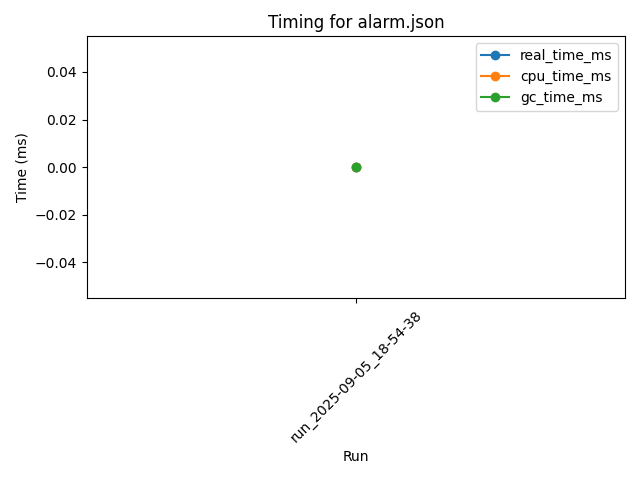
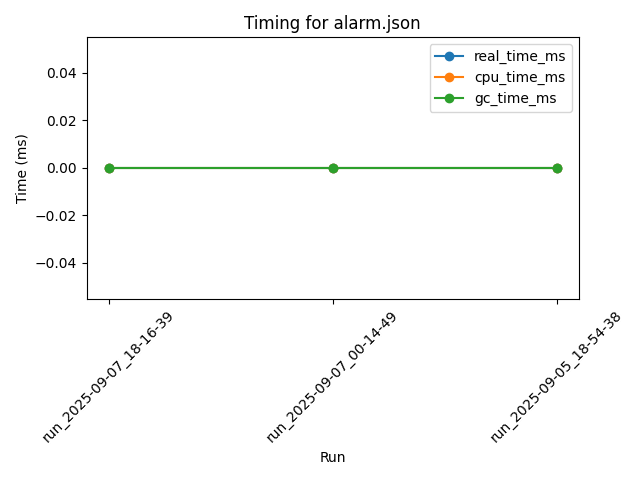
Update timing plots [skip ci]

diff --git a/summary/index.html b/summary/index.html
@@ -1,11 +1,21 @@
 <!DOCTYPE html PUBLIC "-//W3C//DTD HTML 4.01 Transitional//EN" "http://www.w3.org/TR/html4/loose.dtd">
-<html><head><meta http-equiv="content-type" content="text/html; charset=utf-8"/><meta name="viewport" content="width=device-width, initial-scale=0.8"/><title>Benchmarking results summary</title><link rel="stylesheet" type="text/css" href="scribble.css" title="default"/><link rel="stylesheet" type="text/css" href="manual-style.css" title="default"/><link rel="stylesheet" type="text/css" href="manual-racket.css" title="default"/><script type="text/javascript" src="scribble-common.js"></script><script type="text/javascript" src="manual-racket.js"></script><!--[if IE 6]><style type="text/css">.SIEHidden { overflow: hidden; }</style><![endif]--></head><body id="scribble-racket-lang-org"><div class="tocset"><div class="tocview"><div class="tocviewlist tocviewlisttopspace"><div class="tocviewtitle"><table cellspacing="0" cellpadding="0"><tr><td style="width: 1em;">&bull;</td><td></td><td><a href="" class="tocviewselflink" data-pltdoc="x">Benchmarking results summary</a></td></tr></table></div></div></div><div class="tocsub"><div class="tocsubtitle">On this page:</div><table class="tocsublist" cellspacing="0"><tr><td><span class="tocsublinknumber"></span><a href="#%28part._.Benchmarking_results_summary%29" class="tocsubseclink" data-pltdoc="x">Benchmarking results summary</a></td></tr></table></div></div><div class="maincolumn"><div class="main"><div class="versionbox"><span class="version">8.15</span></div><div class="navsettop"><span class="navleft"><div class="nosearchform"></div>&nbsp;&nbsp;<span class="tocsettoggle">&nbsp;&nbsp;<a href="javascript:void(0);" title="show/hide table of contents" onclick="TocsetToggle();">contents</a></span></span>&nbsp;</div><h2 class="heading"><a name="(part._.Benchmarking_results_summary)"></a>Benchmarking results summary<span class="button-group"><a href="#(part._.Benchmarking_results_summary)" class="heading-anchor" title="Link to here">🔗</a><span style="visibility: hidden"> </span></span></h2><ul><li><p><span style="font-weight: bold">alarm</span>
+<html><head><meta http-equiv="content-type" content="text/html; charset=utf-8"/><meta name="viewport" content="width=device-width, initial-scale=0.8"/><title>Benchmarking results summary</title><link rel="stylesheet" type="text/css" href="scribble.css" title="default"/><link rel="stylesheet" type="text/css" href="manual-style.css" title="default"/><link rel="stylesheet" type="text/css" href="manual-racket.css" title="default"/><script type="text/javascript" src="scribble-common.js"></script><script type="text/javascript" src="manual-racket.js"></script><!--[if IE 6]><style type="text/css">.SIEHidden { overflow: hidden; }</style><![endif]--></head><body id="scribble-racket-lang-org"><div class="tocset"><div class="tocview"><div class="tocviewlist tocviewlisttopspace"><div class="tocviewtitle"><table cellspacing="0" cellpadding="0"><tr><td style="width: 1em;">&bull;</td><td></td><td><a href="" class="tocviewselflink" data-pltdoc="x">Benchmarking results summary</a></td></tr></table></div></div></div><div class="tocsub"><div class="tocsubtitle">On this page:</div><table class="tocsublist" cellspacing="0"><tr><td><span class="tocsublinknumber"></span><a href="#%28part._.Benchmarking_results_summary%29" class="tocsubseclink" data-pltdoc="x">Benchmarking results summary</a></td></tr></table></div></div><div class="maincolumn"><div class="main"><div class="versionbox"><span class="version">8.17</span></div><div class="navsettop"><span class="navleft"><div class="nosearchform"></div>&nbsp;&nbsp;<span class="tocsettoggle">&nbsp;&nbsp;<a href="javascript:void(0);" title="show/hide table of contents" onclick="TocsetToggle();">contents</a></span></span>&nbsp;</div><h2 class="heading"><a name="(part._.Benchmarking_results_summary)"></a>Benchmarking results summary<span class="button-group"><a href="#(part._.Benchmarking_results_summary)" class="heading-anchor" title="Link to here">🔗</a><span style="visibility: hidden"> </span></span></h2><ul><li><p><span style="font-weight: bold">alarm</span>
 <br/>
-<img src="alarm.png" alt="" width="640" height="480"/></p></li><li><p><span style="font-weight: bold">bench_test1</span>
+<img src="alarm.png" alt="" width="640" height="480"/></p></li><li><p><span style="font-weight: bold">alarm_timing</span>
 <br/>
-<img src="bench_test1.png" alt="" width="640" height="480"/></p></li><li><p><span style="font-weight: bold">bench_test2</span>
+<img src="alarm_timing.png" alt="" width="640" height="480"/></p></li><li><p><span style="font-weight: bold">bench_test1</span>
 <br/>
-<img src="bench_test2.png" alt="" width="640" height="480"/></p></li><li><p><span style="font-weight: bold">alarm</span>
+<img src="bench_test1.png" alt="" width="640" height="480"/></p></li><li><p><span style="font-weight: bold">bench_test1_timing</span>
+<br/>
+<img src="bench_test1_timing.png" alt="" width="640" height="480"/></p></li><li><p><span style="font-weight: bold">bench_test2</span>
+<br/>
+<img src="bench_test2.png" alt="" width="640" height="480"/></p></li><li><p><span style="font-weight: bold">bench_test2_timing</span>
+<br/>
+<img src="bench_test2_timing.png" alt="" width="640" height="480"/></p></li><li><p><span style="font-weight: bold">murder-mystery</span>
+<br/>
+<img src="murder-mystery.png" alt="" width="640" height="480"/></p></li><li><p><span style="font-weight: bold">murder-mystery_timing</span>
+<br/>
+<img src="murder-mystery_timing.png" alt="" width="640" height="480"/></p></li><li><p><span style="font-weight: bold">alarm</span>
 <br/>
 <img src="alarm.png" alt="" width="640" height="480"/></p></li><li><p><span style="font-weight: bold">bench_test1</span>
 <br/>

diff --git a/summary/scribble-common.js b/summary/scribble-common.js
@@ -2,21 +2,30 @@
 
 // Page Parameters ------------------------------------------------------------
 
-var page_query_string = location.search.substring(1);
-const page_args = new URLSearchParams(location.search);
+function GetURL() {
+  return new URL(location);
+}
+
+function GetPageArgs() {
+  return GetURL().searchParams;
+}
+
+function GetPageQueryString() {
+  return GetPageArgs().toString();
+}
 
 function GetPageArg(key, def) {
-  return page_args.get(key) || def;
+  return GetPageArgs().get(key) || def;
 }
 
 function MergePageArgsIntoLink(a) {
-  if (page_args.size === 0 || !a.dataset.pltdoc) return;
+  if (GetPageArgs().size === 0 || !a.dataset.pltdoc) return;
   a.href = MergePageArgsIntoUrl(a.href);
 }
 
 function MergePageArgsIntoUrl(href) {
   const url = new URL(href, window.location.href);
-  for (const [key, val] of page_args) {
+  for (const [key, val] of GetPageArgs()) {
     if (url.searchParams.has(key)) continue;
     url.searchParams.append(key, val)
   }
@@ -70,12 +79,22 @@ function SetPLTRoot(ver, relative) {
 
 // adding index.html works because of the above
 function GotoPLTRoot(ver, relative) {
-  var u = GetCookie("PLT_Root."+ver, null);
+  var u = GetRootPath(ver);
   if (u == null) return true; // no cookie: use plain up link
   // the relative path is optional, default goes to the toplevel start page
   if (!relative) relative = "index.html";
   location = u + relative;
   return false;
+}
+
+function GetRootPath(ver) {
+    var u = GetCookie("PLT_Root."+ver, null);
+    if (u != null)
+        return u;
+    // use root specified by local-redirect wrapper, if present
+    if (typeof user_doc_root != "undefined")
+        return user_doc_root;
+    return null;
 }
 
 // Utilities ------------------------------------------------------------------
@@ -97,7 +116,7 @@ function NormalizePath(path) {
 function DoSearchKey(event, field, ver, top_path) {
   var val = field.value;
   if (event && event.key === 'Enter') {
-    var u = GetCookie("PLT_Root."+ver, null);
+    var u = GetRootPath(ver);
     if (u == null) u = top_path; // default: go to the top path
     u += "search/index.html?q=" + encodeURIComponent(val);
     u = MergePageArgsIntoUrl(u);

diff --git a/summary/scribble.css b/summary/scribble.css
@@ -12,7 +12,7 @@
    see if any font is set. */
 
 /* Monospace: */
-.maincolumn, .refpara, .refelem, .tocset, .stt, .hspace, .refparaleft, .refelemleft {
+.maincolumn, .refpara, .refelem, .tocset, .stt, .hspace, .refparaleft, .refelemleft, .reffootnote {
   font-family: monospace;
 }
 
@@ -200,7 +200,7 @@ table td {
 /* ---------------------------------------- */
 /* Margin notes */
 
-.refpara, .refelem {
+.refpara, .refelem, .reffootnote {
   position: relative;
   float: right;
   left: 2em;
@@ -209,7 +209,7 @@ table td {
   margin: 0em -13em 0em 0em;
 }
 
-.refpara, .refparaleft {
+.refpara, .refparaleft, .reffootnote {
   top: -1em;
 }
 
